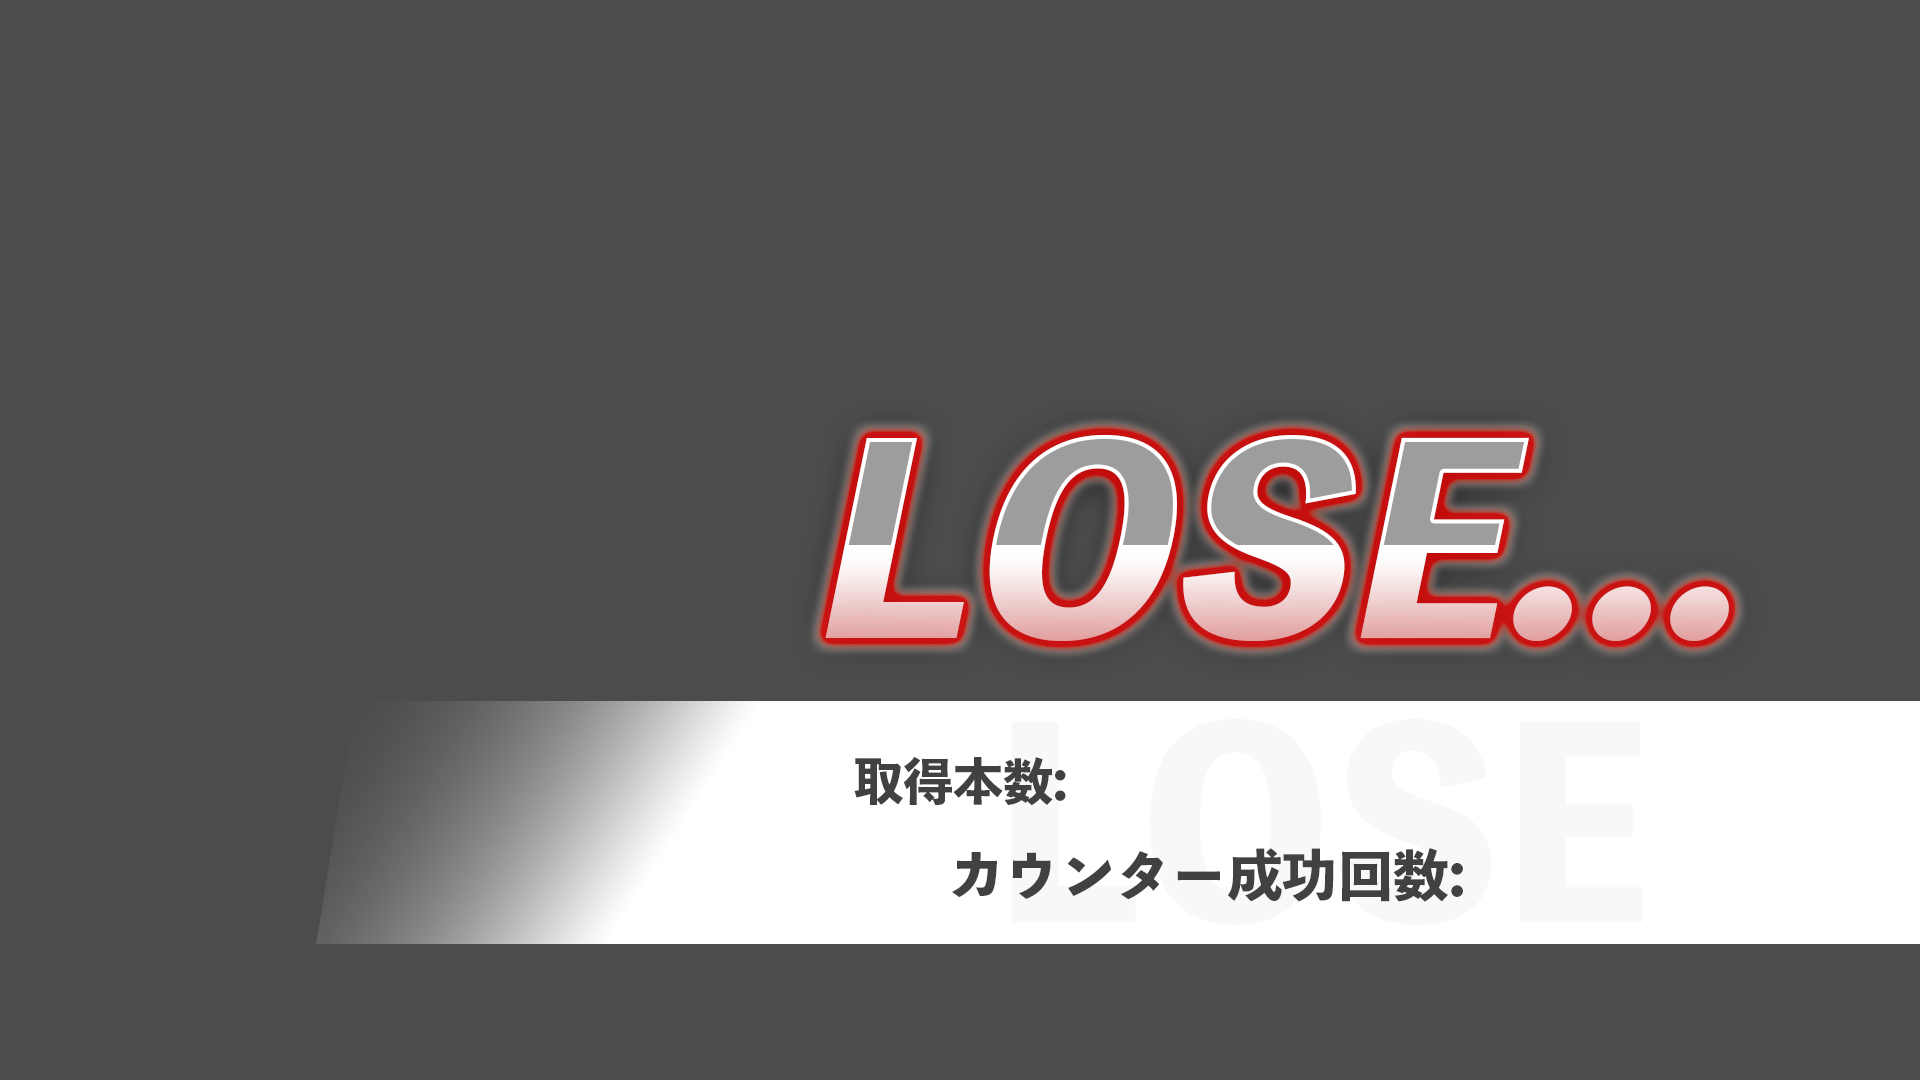
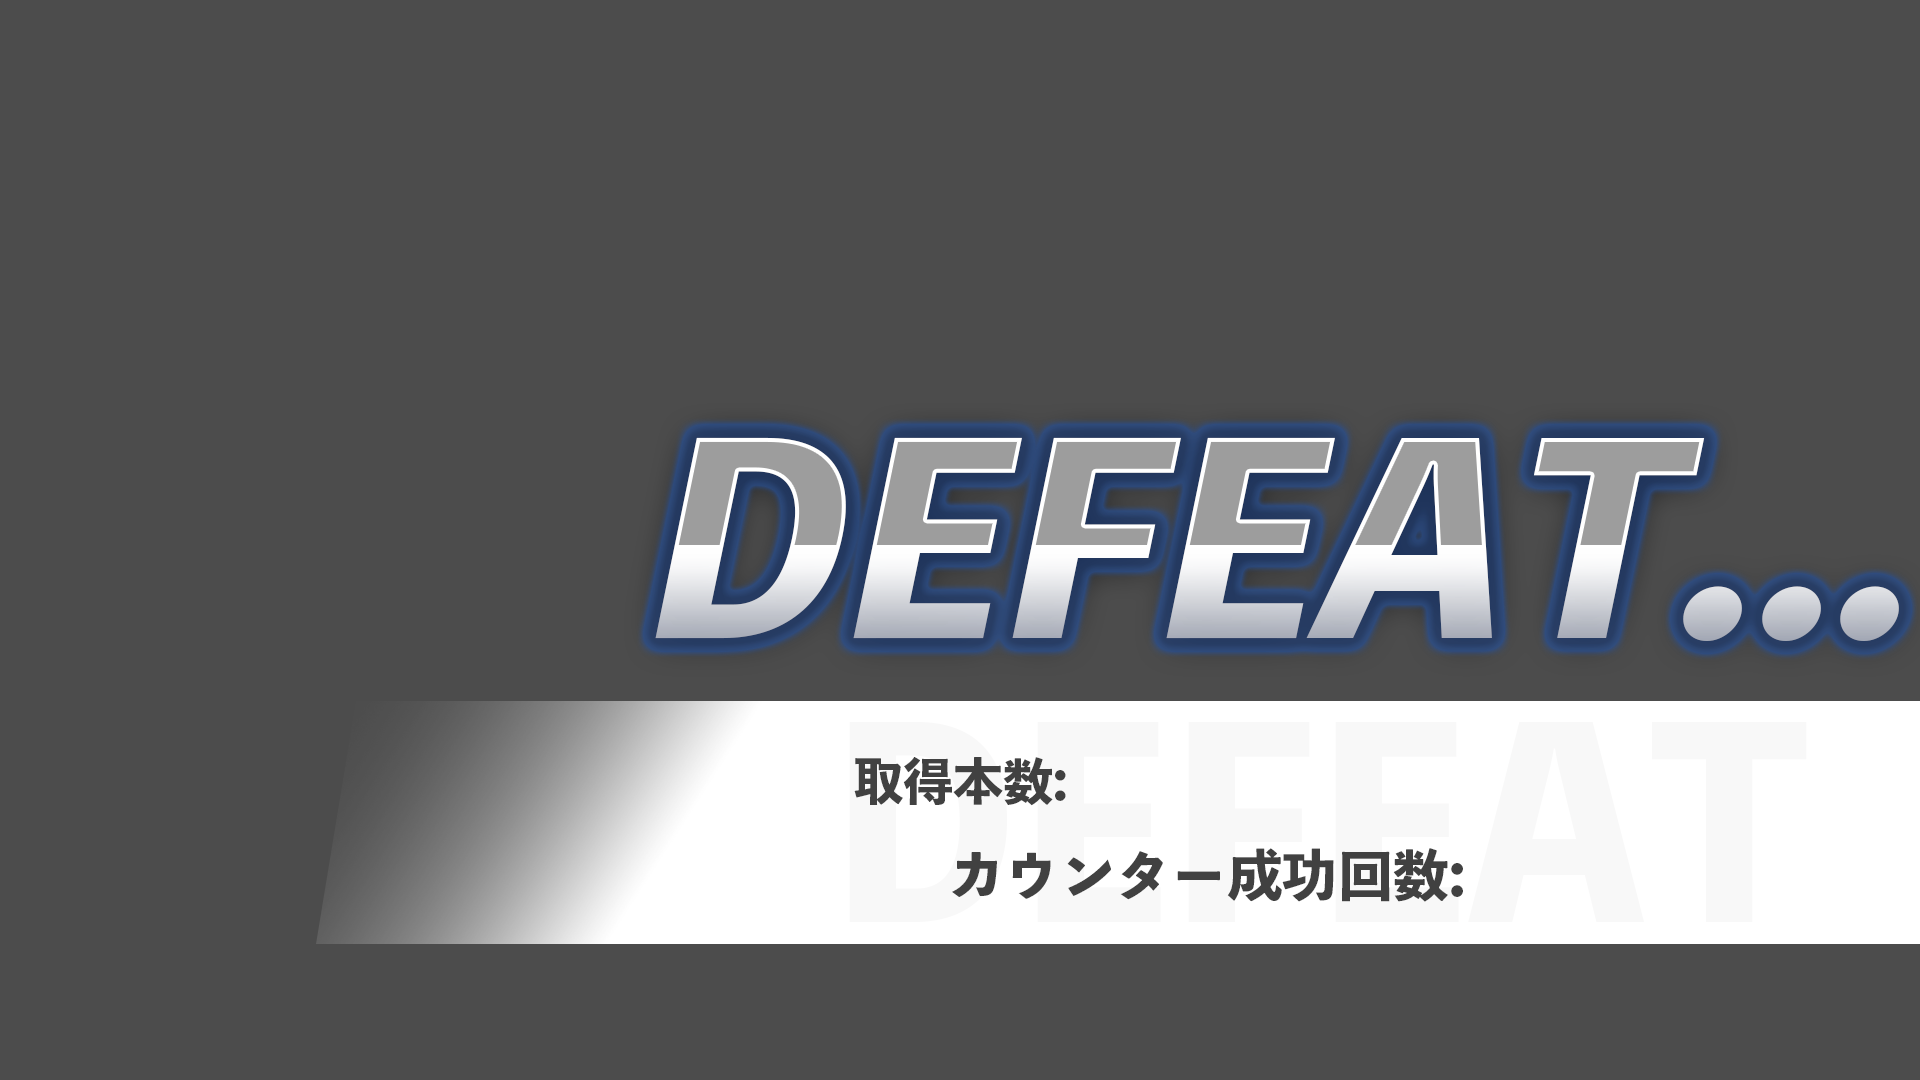
Win,defeatUI実装、tmp

Changed region(s): [[0.3125, 0.3667, 1.0, 0.6111]]

diff --git a/Assets/Scripts/BaseSystem/GameManager.cs b/Assets/Scripts/BaseSystem/GameManager.cs
@@ -149,7 +149,7 @@ namespace BaseSystem
             {
                 IsGameResultJudged = true;
 
-                StartCoroutine(KOBehaviourIfWin());
+                StartCoroutine(KOBehaviour(true));
             }
         }
 
@@ -162,15 +162,16 @@ namespace BaseSystem
             {
                 IsGameResultJudged = true;
 
-                StartCoroutine(KOBehaviourIfLose());
+                StartCoroutine(KOBehaviour(false));
             }
         }
 
-        IEnumerator KOBehaviourIfWin()
+        IEnumerator KOBehaviour(bool ifWin)
         {
             // KOの演出
             const int CANVAS_WIDTH = 800;
-            RectTransform trans = KO_UI.GetComponent<RectTransform>();
+            GameObject koUi = ifWin ? KO_UI : KOed_UI;
+            RectTransform trans =  koUi.GetComponent<RectTransform>();
             float d = PlayerSO.Entity.KODur;
             float time = 0;
             while (true)
@@ -193,23 +194,35 @@ namespace BaseSystem
                 yield return null;
             }
 
+            while (true)
+            {
+                yield return null;
+            }
             yield return new WaitForSeconds(PlayerSO.Entity.KOFadeDur);
             Vector3 p3 = trans.localPosition;
             p3.x = CANVAS_WIDTH;
             trans.localPosition = p3;
 
-            if (GameData.GameData.RoundNum < GameSO.Entity.RoundNum)
+            if (ifWin)
             {
-                // ラウンド数を増やす
-                GameData.GameData.RoundNum += 1;
+                if (GameData.GameData.RoundNum < GameSO.Entity.RoundNum)
+                {
+                    // ラウンド数を増やす
+                    GameData.GameData.RoundNum += 1;
 
-                // HPを戻し、次ラウンドのシーンに遷移する
-                StartCoroutine(WinBehaviour());
+                    // HPを戻し、次ラウンドのシーンに遷移する
+                    StartCoroutine(WinBehaviour());
+                }
+                else
+                {
+                    // 勝利シーンに遷移
+                    LoadSceneAsync.LoadSceneAsync.Load(GameSO.Entity.SceneName.Win, true);
+                }
             }
             else
             {
-                // 勝利シーンに遷移
-                LoadSceneAsync.LoadSceneAsync.Load(GameSO.Entity.SceneName.Win, true);
+                // 敗北シーンに遷移
+                LoadSceneAsync.LoadSceneAsync.Load(GameSO.Entity.SceneName.Lose, true);
             }
         }
 
@@ -224,42 +237,6 @@ namespace BaseSystem
 
             // 次ラウンドのシーンに遷移
             LoadSceneAsync.LoadSceneAsync.Load(GameSO.Entity.SceneName.Game, true);
-        }
-        [SerializeField,Range(0,100)] float indexer;
-        IEnumerator KOBehaviourIfLose()
-        {
-            // KOedの演出
-            const int CANVAS_WIDTH = 800;
-            RectTransform trans = KOed_UI.GetComponent<RectTransform>();
-            float d = PlayerSO.Entity.KODur;
-            float time = 0;
-            while (true)
-            {
-                time += Time.deltaTime;
-
-                if (time >= d)
-                {
-                    Vector3 p1 = trans.localPosition;
-                    p1.x = 0;
-                    trans.localPosition = p1;
-                    break;
-                }
-
-                Vector3 p2 = trans.localPosition;
-                p2.x = -CANVAS_WIDTH / d * time + CANVAS_WIDTH;
-
-                trans.localPosition = p2;
-
-                yield return null;
-            }
-
-            yield return new WaitForSeconds(PlayerSO.Entity.KOFadeDur);
-            Vector3 p3 = trans.localPosition;
-            p3.x = CANVAS_WIDTH;
-            trans.localPosition = p3;
-
-            // 敗北シーンに遷移
-            LoadSceneAsync.LoadSceneAsync.Load(GameSO.Entity.SceneName.Lose, true);
         }
         #endregion
 
